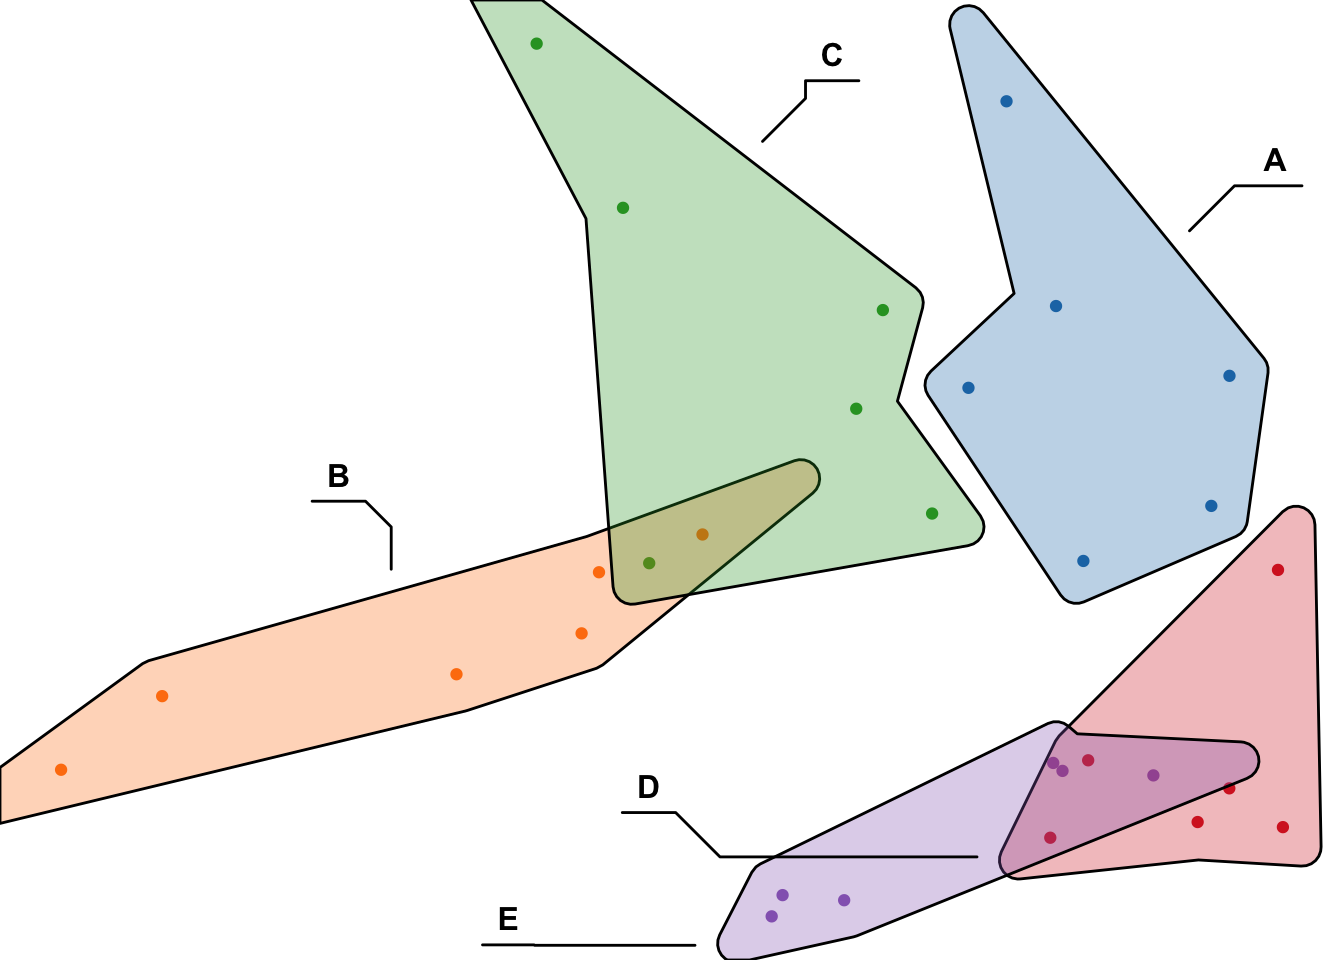
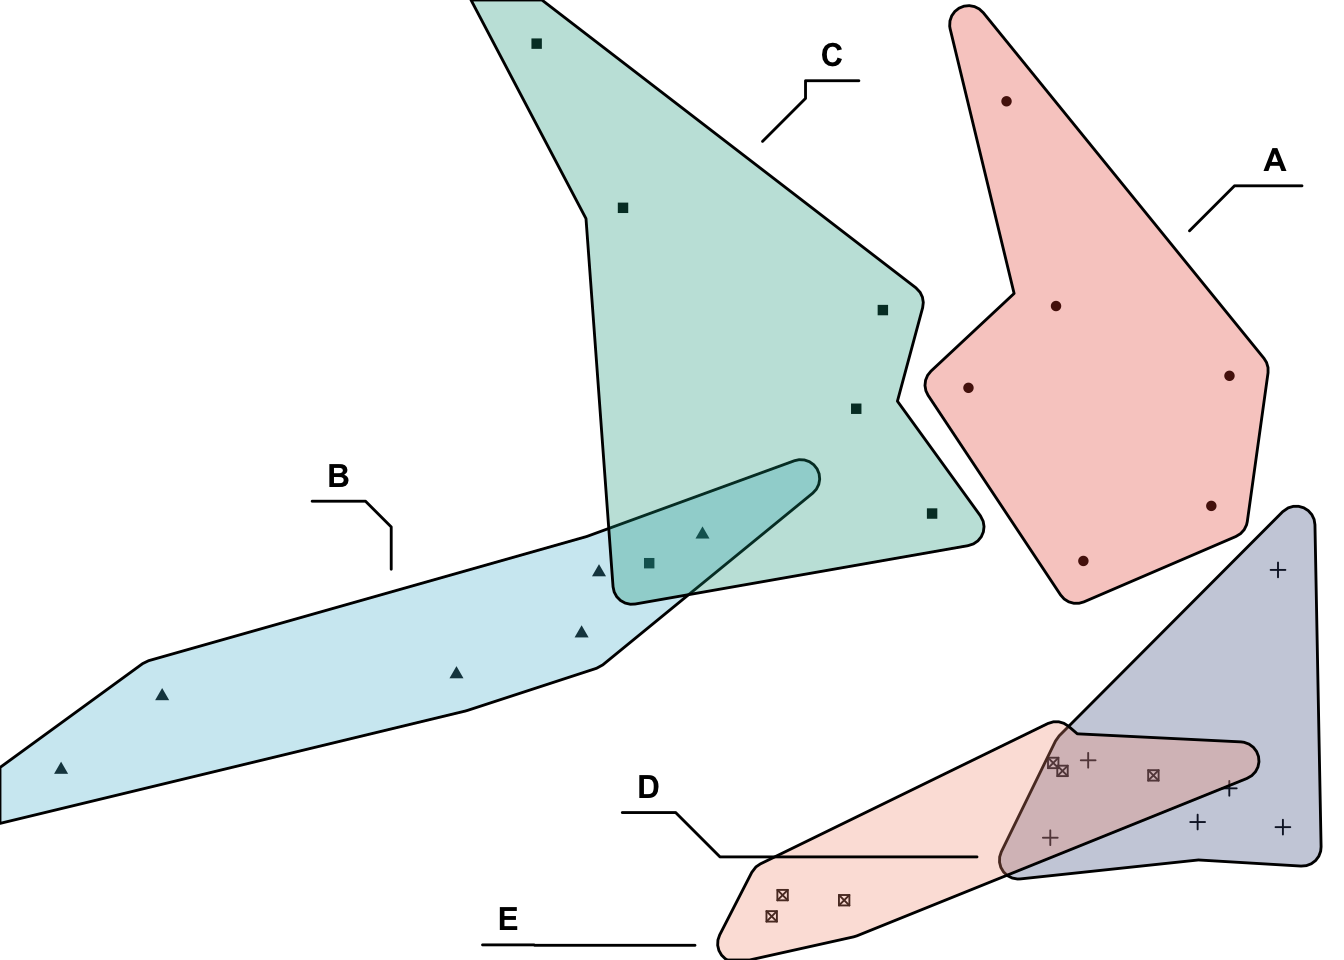
Add graphic in the 'distance between groups' post

diff --git a/public/2019/10/25/distance-between-groups/index.html b/public/2019/10/25/distance-between-groups/index.html
@@ -55,7 +55,7 @@
 
   <article class="article">
     
-    <span class="article-duration">8 min read</span>
+    <span class="article-duration">9 min read</span>
     
 
     <h1 class="article-title">Distance between groups</h1>
@@ -72,7 +72,8 @@
 library(tidyverse)
 library(ggforce)
 library(ggsci)
-library(gt)</code></pre>
+library(gt)
+library(ggrepel)</code></pre>
 <p>First, we make a fake data set:</p>
 <pre class="r"><code>set.seed(2019)
 n &lt;- 6
@@ -97,11 +98,10 @@ df &lt;- bind_rows(ADf, BDf, CDf, DDf, EDf) %&gt;%
   ungroup()</code></pre>
 <p>Visualization of the data:</p>
 <pre class="r"><code>ggplot(df, aes(x, y)) + 
-  geom_point(aes(color = group), show.legend = FALSE) +
+  geom_point(aes(shape = group), show.legend = FALSE) +
   geom_mark_hull(aes(label = group, fill = group), 
                  show.legend = FALSE) +
-  scale_color_d3() +
-  scale_fill_d3() +
+  scale_fill_npg() +
   theme_void() </code></pre>
 <p><img src="/post/2019-10-25-distance-between-groups_files/figure-html/unnamed-chunk-3-1.png" width="672" /></p>
 <p>Make a <code>distance</code> object:</p>
@@ -479,25 +479,23 @@ Dist_Gr %&gt;%
   
 </table></div>
 <p>What are the distances between groups?</p>
-<pre class="r"><code>dist_func &lt;- min # function to be used to define the distance between groups
-
-Dist_Between_Groups &lt;- Dist_Gr %&gt;%
-  group_by(Label, Group1, Group2) %&gt;%
-  summarize(Distance = dist_func(Distance)) %&gt;%
-  mutate(Distance = ifelse(str_detect(Label, &quot;^Within &quot;), 0, Distance)) %&gt;% # distance between the same groups should be 0
+<pre class="r"><code>Dist_Between_Groups &lt;- Dist_Gr %&gt;%
   arrange(Label, Distance) %&gt;%
-  ungroup() %&gt;%
   filter(!duplicated(Label)) %&gt;%
+  mutate(Distance = ifelse(str_detect(Label, &quot;^Within &quot;), 0, Distance)) %&gt;%
   mutate(rowItem = str_remove_all(Label, &quot;^Between | and .+|^Within &quot;)) %&gt;%
   mutate(colItem = str_remove_all(Label, &quot;^.+ and |^Within &quot;)) %&gt;%
-  select(rowItem, colItem, Distance) %&gt;%
+  select(Item1, Item2, rowItem, colItem, Label, Distance) 
+
+Dist_Matix &lt;- Dist_Between_Groups %&gt;%
+  select(-Item1, -Item2, -Label) %&gt;%
   pivot_wider(names_from = &quot;colItem&quot;, values_from = &quot;Distance&quot;, values_fill = list(Distance = 0)) %&gt;%
   column_to_rownames(&quot;rowItem&quot;)
 
-Dist_Between_Groups &lt;- Dist_Between_Groups[, rownames(Dist_Between_Groups)] # arrange columns
-Dist_Between_Groups &lt;- Dist_Between_Groups + t(Dist_Between_Groups) # make a symmetric matrix</code></pre>
+Dist_Matix &lt;- Dist_Matix[, rownames(Dist_Matix)] # arrange columns
+Dist_Matix &lt;- Dist_Matix + t(Dist_Matix) # make a symmetric matrix</code></pre>
 <p>Now distances between groups are:</p>
-<pre class="r"><code>Dist_Between_Groups %&gt;%
+<pre class="r"><code>Dist_Matix %&gt;%
   rownames_to_column() %&gt;%
   gt(rowname_col = &quot;rowname&quot;)</code></pre>
 <style>html {
@@ -852,6 +850,36 @@ Dist_Between_Groups &lt;- Dist_Between_Groups + t(Dist_Between_Groups) # make a 
   
   
 </table></div>
+<p>Which samples achiecve the minimum distances?</p>
+<pre class="r"><code>whichSamplesFirst &lt;- Dist_Between_Groups %&gt;%
+  select(Item1, Label) %&gt;%
+  mutate(Item1 = as.character(Item1)) %&gt;%
+  left_join(df %&gt;% select(-group), by = c(&quot;Item1&quot; = &quot;SampleID&quot;)) %&gt;%
+  rename(x1 = x, y1 = y)
+
+whichSamplesSecond &lt;- Dist_Between_Groups %&gt;%
+  select(Item2, Label) %&gt;%
+  mutate(Item2 = as.character(Item2)) %&gt;%
+  left_join(df %&gt;% select(-group), by = c(&quot;Item2&quot; = &quot;SampleID&quot;)) %&gt;%
+  rename(x2 = x, y2 = y)
+
+whichSampleCombined &lt;- whichSamplesFirst %&gt;%
+  left_join(whichSamplesSecond, by = &quot;Label&quot;) %&gt;%
+  filter(str_detect(Label, &quot;^Between &quot;))</code></pre>
+<pre class="r"><code>df %&gt;% 
+  mutate(repel_label = ifelse(SampleID %in% c(whichSampleCombined$Item1, whichSampleCombined$Item2),
+                              SampleID, &quot;&quot;)) %&gt;%
+  ggplot(aes(x, y)) + 
+  geom_point(aes(shape = group), show.legend = FALSE) +
+  geom_mark_hull(aes(label = group, fill = group), 
+                 show.legend = FALSE) +
+  scale_color_d3() +
+  scale_fill_npg() +
+  geom_text_repel(aes(label = repel_label)) +
+  geom_segment(data = whichSampleCombined, 
+               aes(x = x1, y = y1, xend = x2, yend = y2, color = Label)) +
+  theme_void() </code></pre>
+<p><img src="/post/2019-10-25-distance-between-groups_files/figure-html/unnamed-chunk-11-1.png" width="672" /></p>
 
     </div>
   </article>

diff --git a/content/post/2019-10-25-distance-between-groups.html b/content/post/2019-10-25-distance-between-groups.html
@@ -13,7 +13,8 @@ tags: []
 library(tidyverse)
 library(ggforce)
 library(ggsci)
-library(gt)</code></pre>
+library(gt)
+library(ggrepel)</code></pre>
 <p>First, we make a fake data set:</p>
 <pre class="r"><code>set.seed(2019)
 n &lt;- 6
@@ -38,11 +39,10 @@ df &lt;- bind_rows(ADf, BDf, CDf, DDf, EDf) %&gt;%
   ungroup()</code></pre>
 <p>Visualization of the data:</p>
 <pre class="r"><code>ggplot(df, aes(x, y)) + 
-  geom_point(aes(color = group), show.legend = FALSE) +
+  geom_point(aes(shape = group), show.legend = FALSE) +
   geom_mark_hull(aes(label = group, fill = group), 
                  show.legend = FALSE) +
-  scale_color_d3() +
-  scale_fill_d3() +
+  scale_fill_npg() +
   theme_void() </code></pre>
 <p><img src="/post/2019-10-25-distance-between-groups_files/figure-html/unnamed-chunk-3-1.png" width="672" /></p>
 <p>Make a <code>distance</code> object:</p>
@@ -420,25 +420,23 @@ Dist_Gr %&gt;%
   
 </table></div>
 <p>What are the distances between groups?</p>
-<pre class="r"><code>dist_func &lt;- min # function to be used to define the distance between groups
-
-Dist_Between_Groups &lt;- Dist_Gr %&gt;%
-  group_by(Label, Group1, Group2) %&gt;%
-  summarize(Distance = dist_func(Distance)) %&gt;%
-  mutate(Distance = ifelse(str_detect(Label, &quot;^Within &quot;), 0, Distance)) %&gt;% # distance between the same groups should be 0
+<pre class="r"><code>Dist_Between_Groups &lt;- Dist_Gr %&gt;%
   arrange(Label, Distance) %&gt;%
-  ungroup() %&gt;%
   filter(!duplicated(Label)) %&gt;%
+  mutate(Distance = ifelse(str_detect(Label, &quot;^Within &quot;), 0, Distance)) %&gt;%
   mutate(rowItem = str_remove_all(Label, &quot;^Between | and .+|^Within &quot;)) %&gt;%
   mutate(colItem = str_remove_all(Label, &quot;^.+ and |^Within &quot;)) %&gt;%
-  select(rowItem, colItem, Distance) %&gt;%
+  select(Item1, Item2, rowItem, colItem, Label, Distance) 
+
+Dist_Matix &lt;- Dist_Between_Groups %&gt;%
+  select(-Item1, -Item2, -Label) %&gt;%
   pivot_wider(names_from = &quot;colItem&quot;, values_from = &quot;Distance&quot;, values_fill = list(Distance = 0)) %&gt;%
   column_to_rownames(&quot;rowItem&quot;)
 
-Dist_Between_Groups &lt;- Dist_Between_Groups[, rownames(Dist_Between_Groups)] # arrange columns
-Dist_Between_Groups &lt;- Dist_Between_Groups + t(Dist_Between_Groups) # make a symmetric matrix</code></pre>
+Dist_Matix &lt;- Dist_Matix[, rownames(Dist_Matix)] # arrange columns
+Dist_Matix &lt;- Dist_Matix + t(Dist_Matix) # make a symmetric matrix</code></pre>
 <p>Now distances between groups are:</p>
-<pre class="r"><code>Dist_Between_Groups %&gt;%
+<pre class="r"><code>Dist_Matix %&gt;%
   rownames_to_column() %&gt;%
   gt(rowname_col = &quot;rowname&quot;)</code></pre>
 <style>html {
@@ -793,3 +791,33 @@ Dist_Between_Groups &lt;- Dist_Between_Groups + t(Dist_Between_Groups) # make a 
   
   
 </table></div>
+<p>Which samples achiecve the minimum distances?</p>
+<pre class="r"><code>whichSamplesFirst &lt;- Dist_Between_Groups %&gt;%
+  select(Item1, Label) %&gt;%
+  mutate(Item1 = as.character(Item1)) %&gt;%
+  left_join(df %&gt;% select(-group), by = c(&quot;Item1&quot; = &quot;SampleID&quot;)) %&gt;%
+  rename(x1 = x, y1 = y)
+
+whichSamplesSecond &lt;- Dist_Between_Groups %&gt;%
+  select(Item2, Label) %&gt;%
+  mutate(Item2 = as.character(Item2)) %&gt;%
+  left_join(df %&gt;% select(-group), by = c(&quot;Item2&quot; = &quot;SampleID&quot;)) %&gt;%
+  rename(x2 = x, y2 = y)
+
+whichSampleCombined &lt;- whichSamplesFirst %&gt;%
+  left_join(whichSamplesSecond, by = &quot;Label&quot;) %&gt;%
+  filter(str_detect(Label, &quot;^Between &quot;))</code></pre>
+<pre class="r"><code>df %&gt;% 
+  mutate(repel_label = ifelse(SampleID %in% c(whichSampleCombined$Item1, whichSampleCombined$Item2),
+                              SampleID, &quot;&quot;)) %&gt;%
+  ggplot(aes(x, y)) + 
+  geom_point(aes(shape = group), show.legend = FALSE) +
+  geom_mark_hull(aes(label = group, fill = group), 
+                 show.legend = FALSE) +
+  scale_color_d3() +
+  scale_fill_npg() +
+  geom_text_repel(aes(label = repel_label)) +
+  geom_segment(data = whichSampleCombined, 
+               aes(x = x1, y = y1, xend = x2, yend = y2, color = Label)) +
+  theme_void() </code></pre>
+<p><img src="/post/2019-10-25-distance-between-groups_files/figure-html/unnamed-chunk-11-1.png" width="672" /></p>
